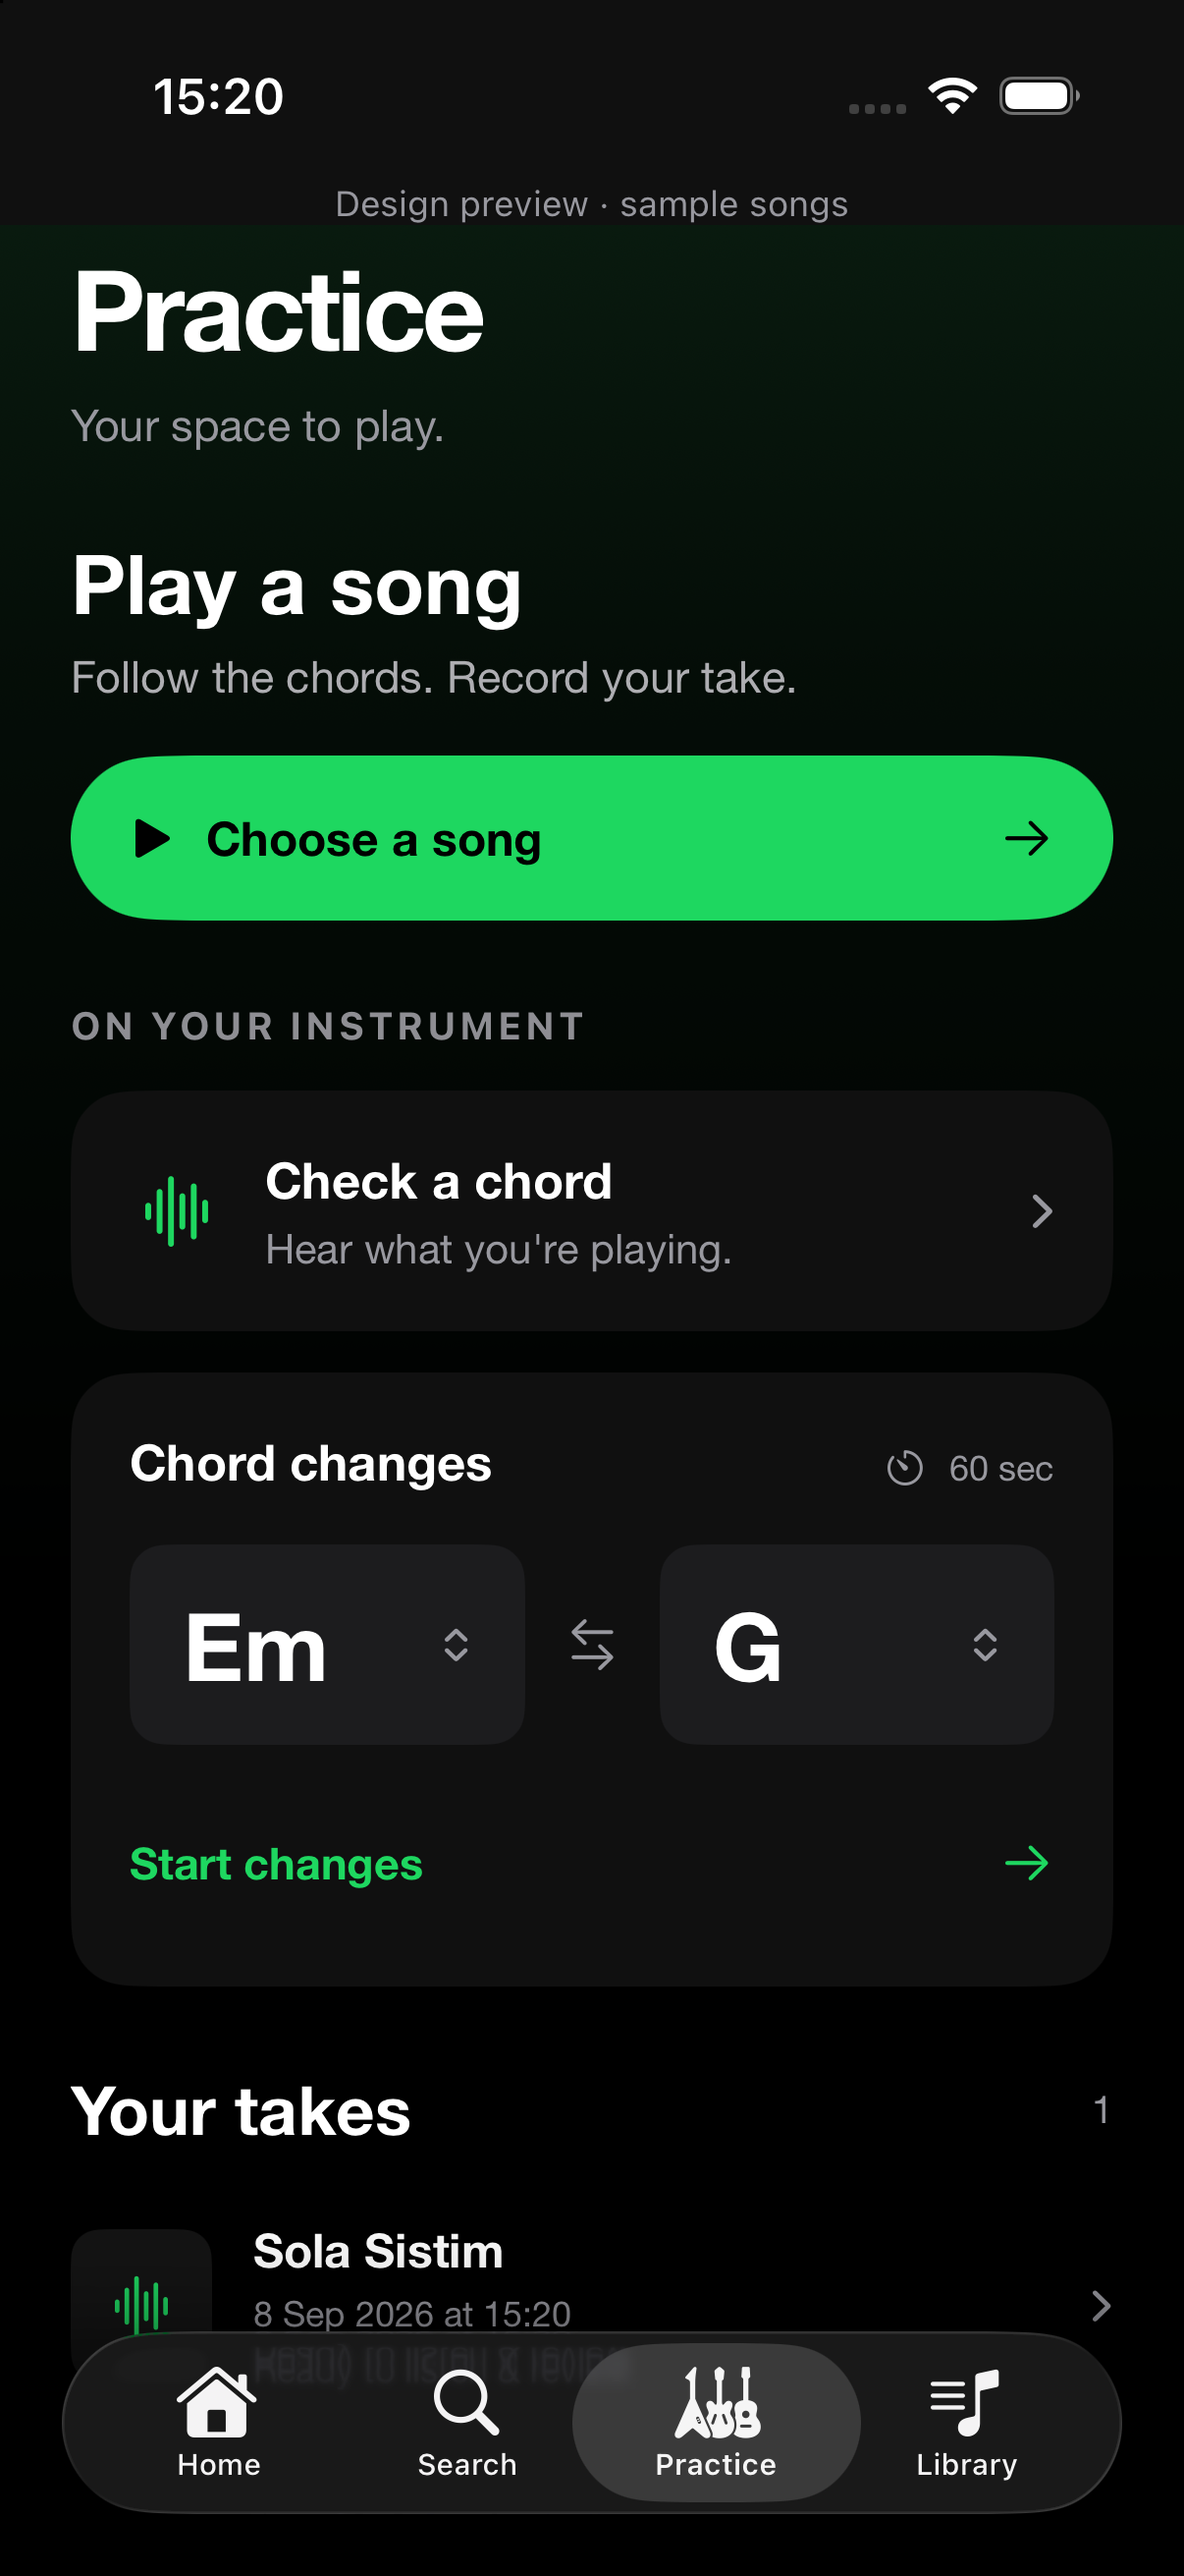
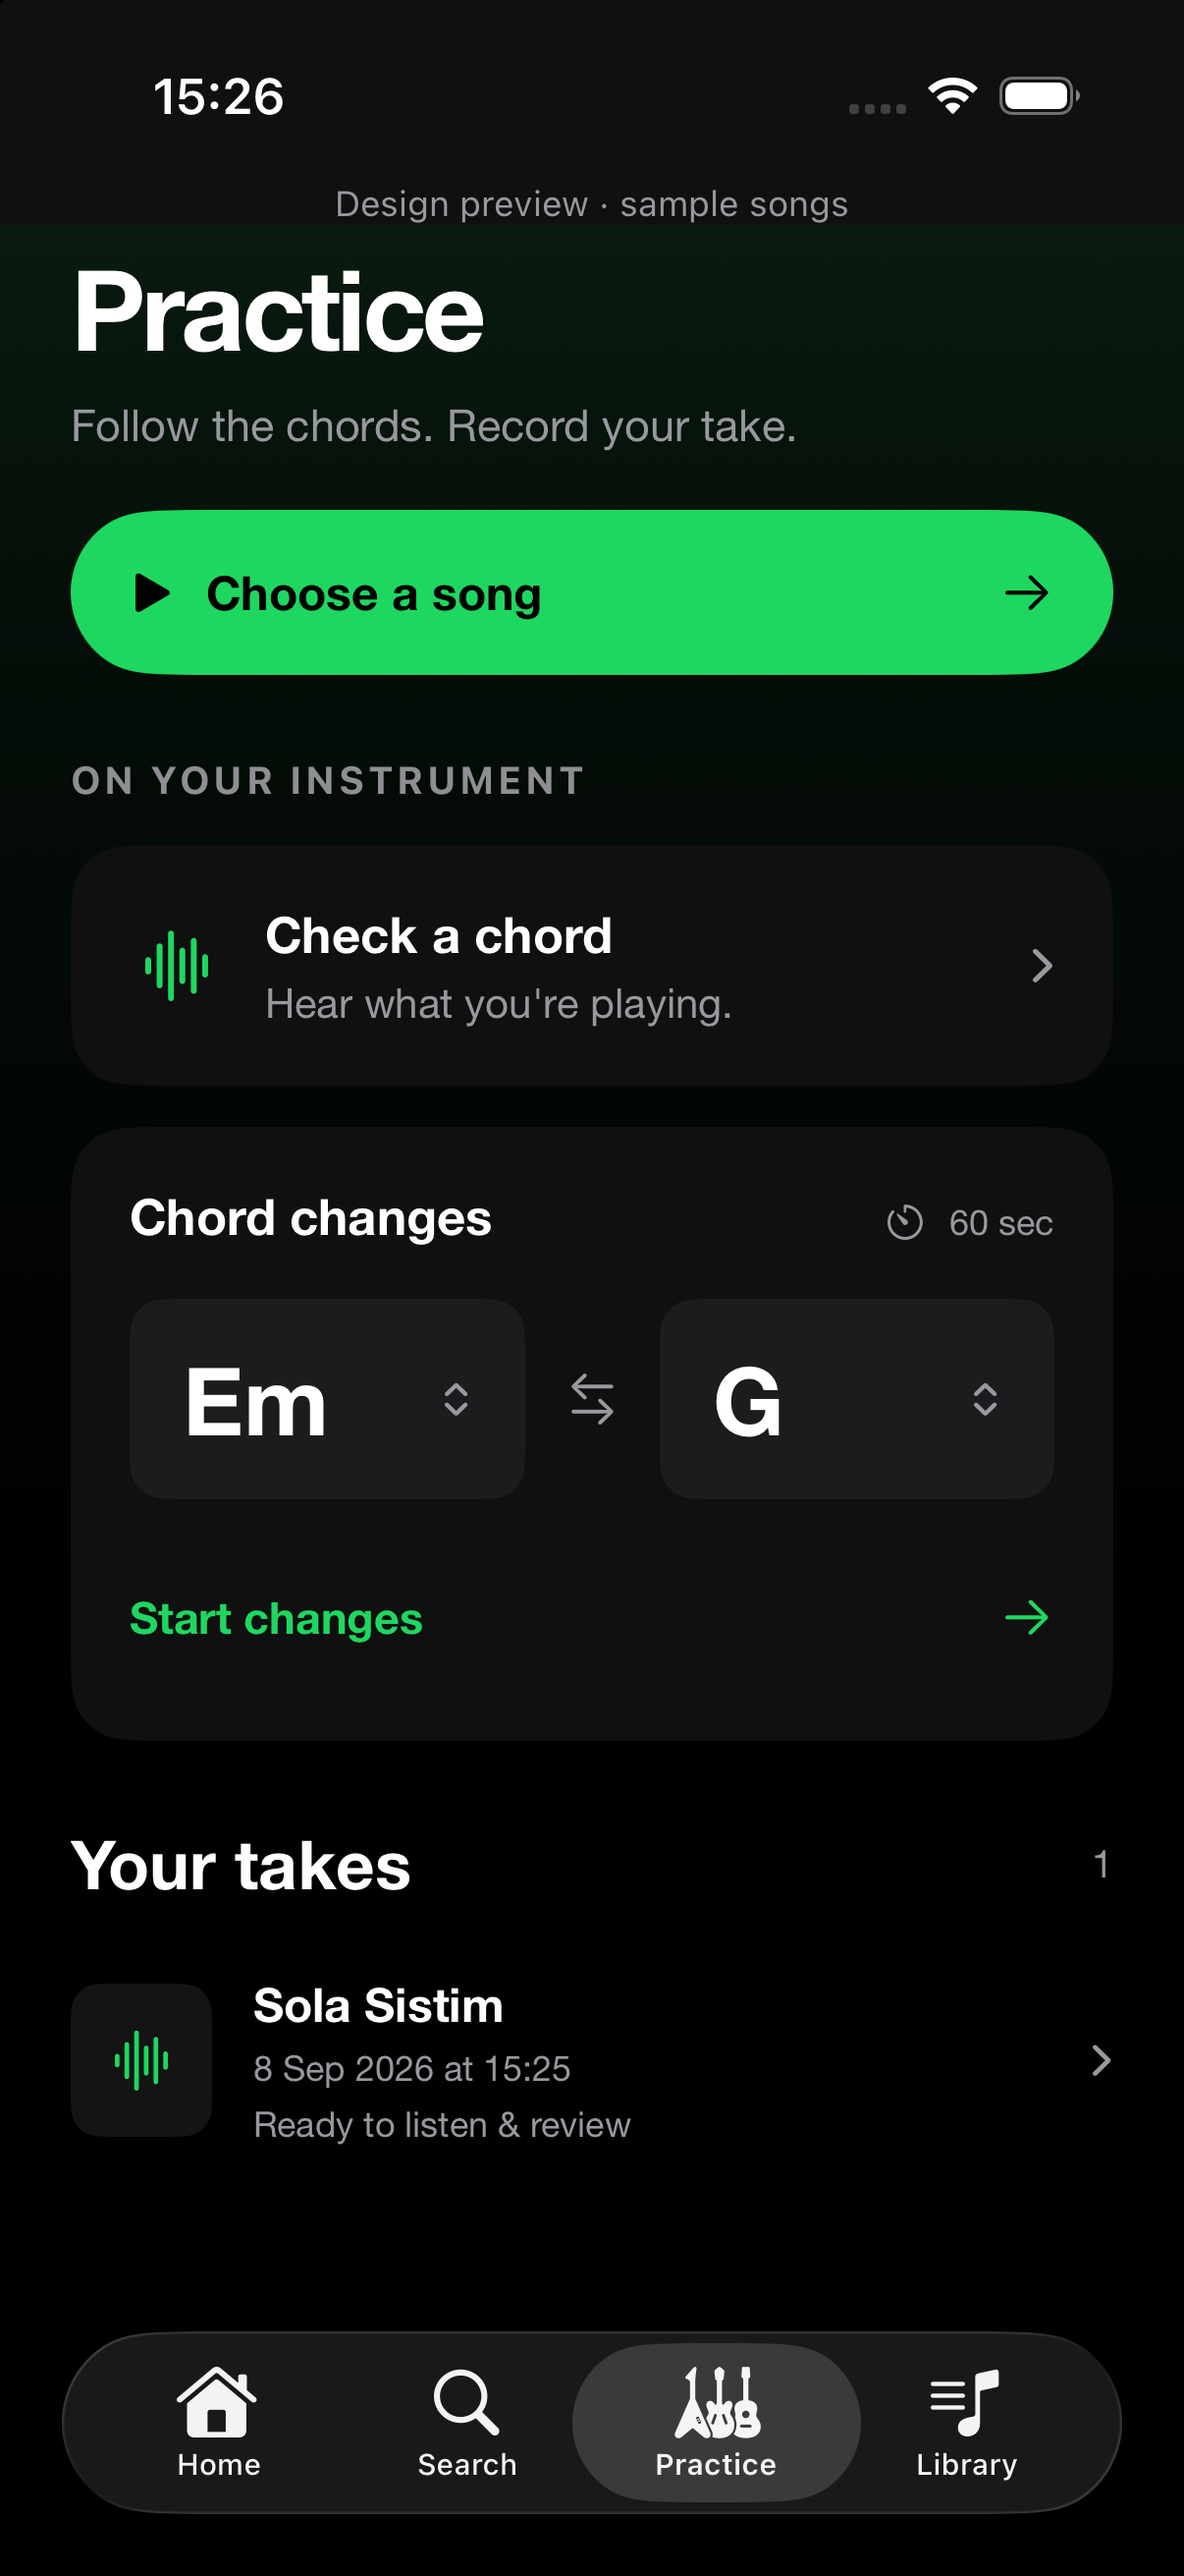
Simplify Practice to a single header

diff --git a/Chordlyze/Views/PracticeHubView.swift b/Chordlyze/Views/PracticeHubView.swift
@@ -18,8 +18,10 @@ struct PracticeHubView: View {
     var body: some View {
         ScrollView {
             LazyVStack(alignment: .leading, spacing: 28) {
-                MusicHeader(title: "Practice", subtitle: "Your space to play.")
-                songPractice
+                VStack(alignment: .leading, spacing: 20) {
+                    MusicHeader(title: "Practice", subtitle: "Follow the chords. Record your take.")
+                    songPractice
+                }
                 VStack(alignment: .leading, spacing: 14) {
                     SectionLabel("On your instrument")
                     recognition
@@ -36,24 +38,16 @@ struct PracticeHubView: View {
     }
 
     private var songPractice: some View {
-        VStack(alignment: .leading, spacing: 18) {
-            VStack(alignment: .leading, spacing: 6) {
-                Text("Play a song").font(MusicStyle.font(28, bold: true, relativeTo: .title))
-                    .accessibilityAddTraits(.isHeader)
-                Text("Follow the chords. Record your take.")
-                    .font(MusicStyle.font(15)).foregroundStyle(Palette.lyricDim)
-            }
-            NavigationLink { LibraryView(fetch: fetchSongs) } label: {
-                HStack(spacing: 12) {
-                    Image(systemName: "play.fill")
-                    Text("Choose a song").font(MusicStyle.font(16, bold: true))
-                    Spacer()
-                    Image(systemName: "arrow.right")
-                }.foregroundStyle(.black).padding(.horizontal, 20).padding(.vertical, 18)
-                    .frame(minHeight: 56)
-                    .background(Color.spotifyGreen, in: Capsule())
-            }.buttonStyle(MusicPressStyle()).accessibilityIdentifier("practice-choose-song")
-        }
+        NavigationLink { LibraryView(fetch: fetchSongs) } label: {
+            HStack(spacing: 12) {
+                Image(systemName: "play.fill")
+                Text("Choose a song").font(MusicStyle.font(16, bold: true))
+                Spacer()
+                Image(systemName: "arrow.right")
+            }.foregroundStyle(.black).padding(.horizontal, 20).padding(.vertical, 18)
+                .frame(minHeight: 56)
+                .background(Color.spotifyGreen, in: Capsule())
+        }.buttonStyle(MusicPressStyle()).accessibilityIdentifier("practice-choose-song")
     }
 
     private var recognition: some View {

diff --git a/docs/practice-improvements-2026-09-08/README.md b/docs/practice-improvements-2026-09-08/README.md
@@ -2,7 +2,7 @@
 
 ## What changed
 
-The main Practice tab now uses the app's shared music typography and a restrained green background that fades into black. Song practice has the primary action. Chord recognition and one-minute changes have distinct entries, larger chord selectors, and a same-chord guard. The selected pair persists between visits. Saved takes show their recording time, review state, and a purposeful empty state. Accessibility text sizes stack the chord controls and recording feedback instead of compressing them.
+The main Practice tab now uses the app's shared music typography and a restrained green background that fades into black. A single Practice heading and one supporting line lead directly into the song action; the redundant Play a song heading was removed after review. Chord recognition and one-minute changes have distinct entries, larger chord selectors, and a same-chord guard. The selected pair persists between visits. Saved takes show their recording time, review state, and a purposeful empty state. Accessibility text sizes stack the chord controls and recording feedback instead of compressing them.
 
 The review started with a fresh simulator capture, [before.png](before.png). It showed a flat hierarchy, a low-contrast white-on-green action, small chord selectors, and weak separation between tools and recordings. [after.png](after.png) records the new hierarchy; the preview uses an isolated sample recording and does not overwrite account takes.
 
